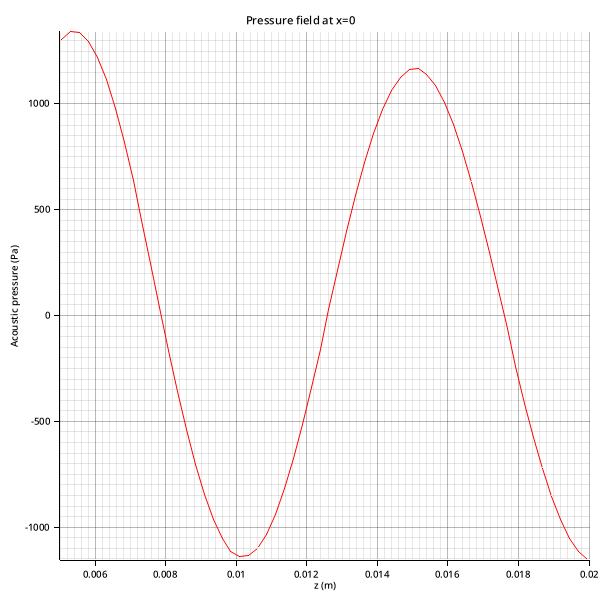
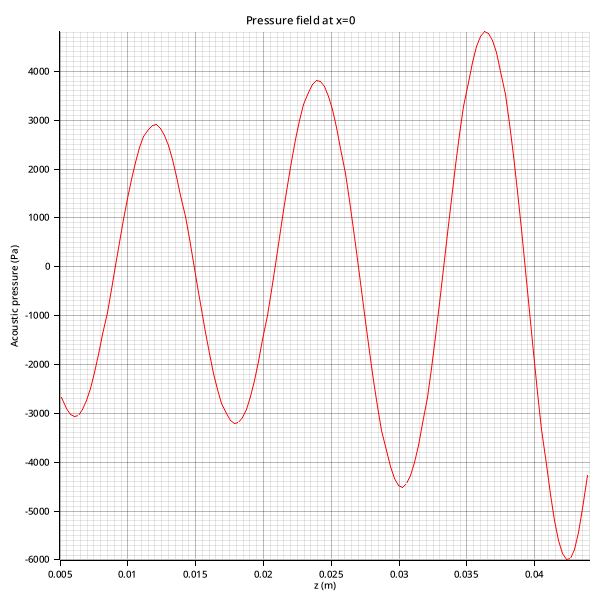
Intensity+density limit+params = tipe experiment

Changed region(s): [[0.03, 0.06, 1.0, 0.96]]

diff --git a/src/main.rs b/src/main.rs
@@ -1,12 +1,15 @@
 use std::fs;
 
 use matrix_method::{
-    potential_field::compute_relative_potential_field,
+    potential_field::{compute_limit_density, compute_relative_potential_field},
     pressure_field::{compute_pressure_field, compute_pressure_fields},
     radiation_force::compute_radiation_force_field,
     Field, FieldType, SimulationParametersArgs, MM,
 };
-use plot::{field::plot_field, graph::graph_field};
+use plot::{
+    field::plot_field,
+    graph::{graph_field, CutOption},
+};
 
 mod matrix_method;
 mod plot;
@@ -16,41 +19,28 @@ fn main() {
     let _ = fs::create_dir_all("./out/graph");
     let _ = fs::create_dir_all("./tmp");
 
-    let spg = SimulationParametersArgs {
+    let sp = SimulationParametersArgs {
         x_min: -30.0 * MM,
         x_max: 30.0 * MM,
         z_min: 0.0 * MM,
-        z_max: 25.0 * MM,
+        z_max: 49.0 * MM,
 
         nb_reflection: 4,
-        disc: 0.25 * MM,
+        disc: 0.3 * MM,
 
-        freq: 37900.0,
+        freq: 28_000.0,
         u_0: 0.0000060,
 
-        sphere_radius: 0.1 * MM,
-        ..Default::default()
+        sphere_radius: 1.0 * MM,
+        hole_radius: 0.0 * MM,
+        inclination: 0.0,
+        offset: 0.0,
+        phase: 0.0,
+        radius: 28.5 * MM,
     };
 
-    let sp1 = SimulationParametersArgs {
-        offset: -15.0 * MM,
-        radius: 10.0 * MM,
-        hole_radius: 0.0 * MM,
-        phase: 0.0,
-        inclination: 17.0,
-        ..Default::default()
-    };
-    let sp2 = SimulationParametersArgs {
-        offset: 15.0 * MM,
-        radius: 10.0 * MM,
-        hole_radius: 0.0 * MM,
-        phase: 0.0,
-        inclination: -17.0,
-        ..Default::default()
-    };
-
-    let pressure = compute_pressure_fields(spg, vec![sp1, sp2]);
-    plot_and_graph(pressure, (spg, true));
+    let pressure = compute_pressure_field(sp);
+    plot_and_graph(pressure, (sp, false));
 }
 
 fn plot_and_graph(pressure: Field, (spg, multiple_simulation): (SimulationParametersArgs, bool)) {
@@ -64,7 +54,7 @@ fn plot_and_graph(pressure: Field, (spg, multiple_simulation): (SimulationParame
     .expect("Failed to draw pressure field");
     graph_field(
         (&pressure, FieldType::Pressure),
-        (0.0, Some(0.005)),
+        (0.0, Some(vec![(0.005, CutOption::Both)])),
         (spg, multiple_simulation),
         "./out/graph/pressure_graph.png",
     )
@@ -84,16 +74,36 @@ fn plot_and_graph(pressure: Field, (spg, multiple_simulation): (SimulationParame
     let radiation_force_field = compute_radiation_force_field(&relative_potential_field, spg);
     plot_field(
         (&radiation_force_field, FieldType::RadiationForce),
-        (None, 6.0),
+        (None, 8.0),
         (spg, multiple_simulation),
         "./out/field/radiation_force.png",
     )
     .expect("Failed to draw force field");
     graph_field(
         (&radiation_force_field, FieldType::RadiationForce),
-        (0.0, Some(0.005)),
+        (0.0, Some(vec![(0.005, CutOption::Both)])),
         (spg, multiple_simulation),
         "./out/graph/force_graph.png",
+    )
+    .expect("Failed to graph force field");
+
+    // Density limit plotting
+    let density_limit = compute_limit_density(&pressure, spg);
+    plot_field(
+        (&density_limit, FieldType::LimitDensity),
+        (Some(0.0..5000.0), 1.0),
+        (spg, multiple_simulation),
+        "./out/field/density_limit.png",
+    )
+    .expect("Failed to draw force field");
+    graph_field(
+        (&density_limit, FieldType::LimitDensity),
+        (
+            0.01,
+            Some(vec![(0.003, CutOption::Left), (0.03, CutOption::Right)]),
+        ),
+        (spg, multiple_simulation),
+        "./out/graph/density_graph.png",
     )
     .expect("Failed to graph force field");
 }

diff --git a/src/plot/graph.rs b/src/plot/graph.rs
@@ -4,9 +4,17 @@ use plotters::prelude::*;
 
 use crate::matrix_method::{Field, FieldType, SimulationParametersArgs, C, RHO};
 
+#[derive(Default)]
+pub enum CutOption {
+    #[default]
+    Both,
+    Left,
+    Right,
+}
+
 pub fn graph_field(
     (field, field_type): (&Field, FieldType),
-    (at_x, cut): (f64, Option<f64>),
+    (at_x, cut): (f64, Option<Vec<(f64, CutOption)>>),
     (sp, multiple_simulation): (SimulationParametersArgs, bool),
     path: &str,
 ) -> Result<(), Box<dyn std::error::Error>> {
@@ -20,8 +28,16 @@ pub fn graph_field(
         ..
     } = sp;
 
-    let cut = cut.unwrap_or_default();
-    let (cz_min, cz_max) = (z_min + cut, z_max - cut);
+    let cuts = cut.unwrap_or_default();
+    assert!(cuts.len() <= 2);
+    let (mut cz_min, mut cz_max) = (z_min, z_max);
+    for (cut, cut_where) in cuts {
+        (cz_min, cz_max) = match cut_where {
+            CutOption::Both => (cz_min + cut, cz_max - cut),
+            CutOption::Left => (cz_min + cut, cz_max),
+            CutOption::Right => (cz_min, cz_max - cut),
+        }
+    }
 
     assert!(at_x >= x_min && at_x <= x_max);
 
@@ -65,7 +81,7 @@ pub fn graph_field(
         .x_desc("z (m)")
         .y_desc(field_type.to_unit())
         .y_label_formatter(&|x| {
-            if x.abs() <= 1e-5 && x != &0.0 {
+            if x.abs() <= 1e-4 && x != &0.0 {
                 format!("{:.2e}", x)
             } else {
                 format!("{}", x)

diff --git a/src/matrix_method/potential_field.rs b/src/matrix_method/potential_field.rs
@@ -1,3 +1,5 @@
+use std::f64::consts::PI;
+
 use ndarray::Array2;
 use num_complex::Complex;
 
@@ -146,4 +148,29 @@ pub fn compute_relative_potential_field(
     }
 
     relative_acoustic_potential.map(|ap| Complex::new(*ap, 0.0))
+}
+
+pub fn compute_sound_intensity(pressure: &Field, sp: impl Into<SimulationParameters>) -> Field {
+    let vf = compute_velocity_field(pressure, sp);
+    assert_eq!(pressure.shape(), vf.0.shape());
+
+    let mut sound_intensity: Array2<f64> = Array2::zeros(pressure.raw_dim());
+    let (row, col) = match *pressure.shape() {
+        [r, c] => (r, c),
+        _ => panic!(),
+    };
+
+    for i in 0..row {
+        for j in 0..col {
+            let v = (vf.0[[i, j]].re.powi(2) + vf.1[[i, j]].re.powi(2)).sqrt();
+            sound_intensity[[i, j]] = pressure[[i, j]].re.abs() * v
+        }
+    }
+    sound_intensity.map(|x| Complex::new(*x, 0.0))
+}
+
+pub fn compute_limit_density(pressure: &Field, sp: impl Into<SimulationParameters>) -> Field {
+    let sp: SimulationParameters = sp.into();
+    let intensity = compute_sound_intensity(pressure, sp.clone());
+    intensity.map(|&i| (10.0 * PI * i) / (C * 9.81 * sp.wavelength))
 }

diff --git a/src/matrix_method/mod.rs b/src/matrix_method/mod.rs
@@ -16,6 +16,8 @@ pub enum FieldType {
     Velocity,
     RadiationPotential,
     RadiationForce,
+    Intensity,
+    LimitDensity,
 }
 
 impl FieldType {
@@ -25,6 +27,8 @@ impl FieldType {
             FieldType::Velocity => "Velocity (m/s)",
             FieldType::RadiationPotential => "Relative acoutic potential (N/m²)",
             FieldType::RadiationForce => "Radiation force (N)",
+            FieldType::Intensity => "Intensité sonore (W/m²)",
+            FieldType::LimitDensity => "Masse volumique limite (kg/m³)",
         }
         .to_string()
     }
@@ -37,6 +41,8 @@ impl Display for FieldType {
             FieldType::Velocity => write!(f, "Velocity field"),
             FieldType::RadiationPotential => write!(f, "Relative acoustic radiation potential"),
             FieldType::RadiationForce => write!(f, "Radiation force"),
+            FieldType::Intensity => write!(f, "Intensité"),
+            FieldType::LimitDensity => write!(f, "Masse volumique limite"),
         }
     }
 }
